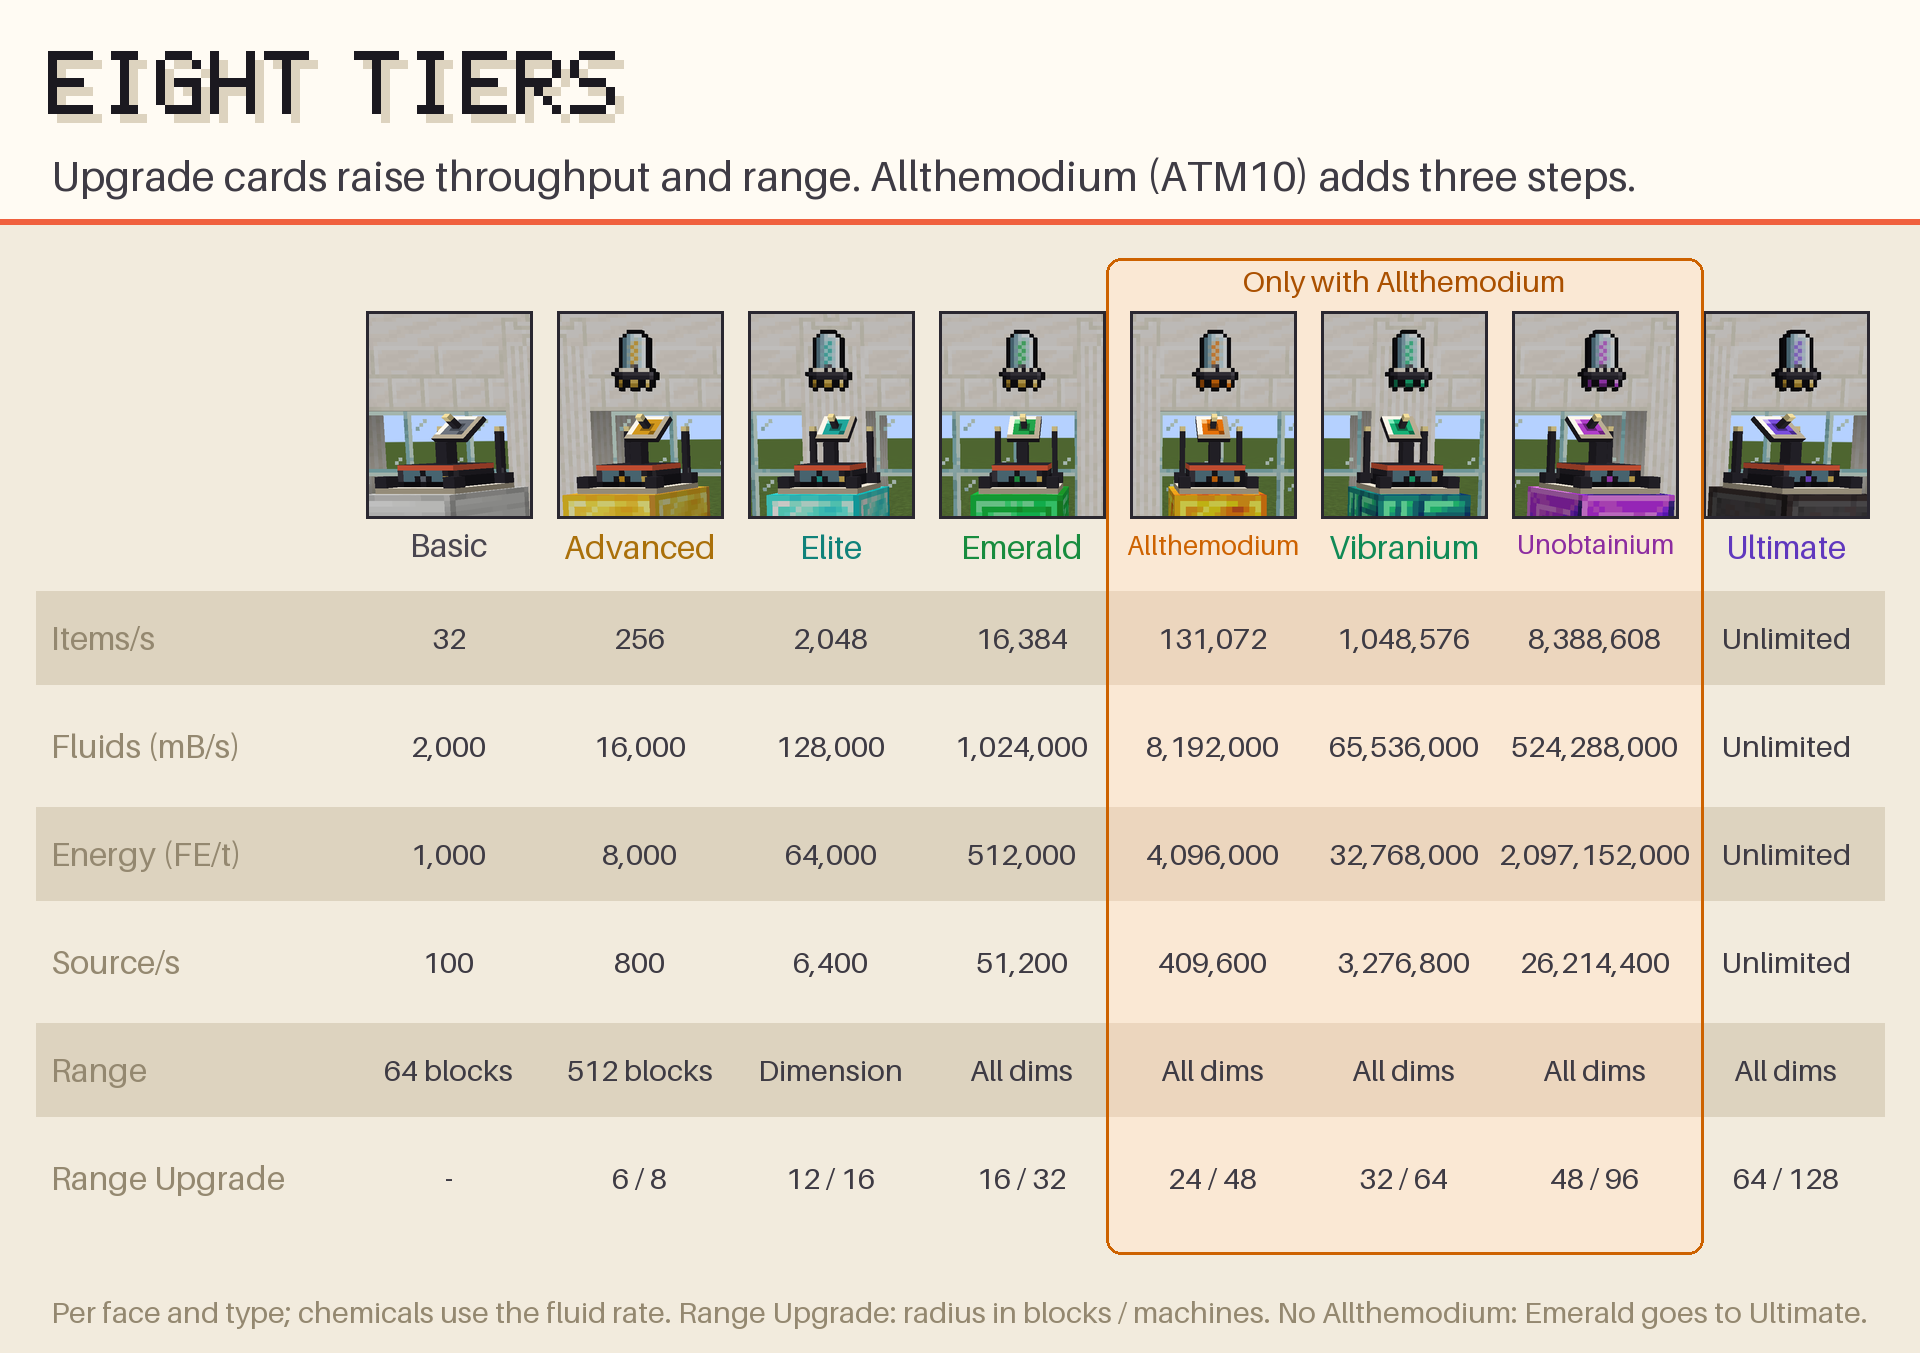
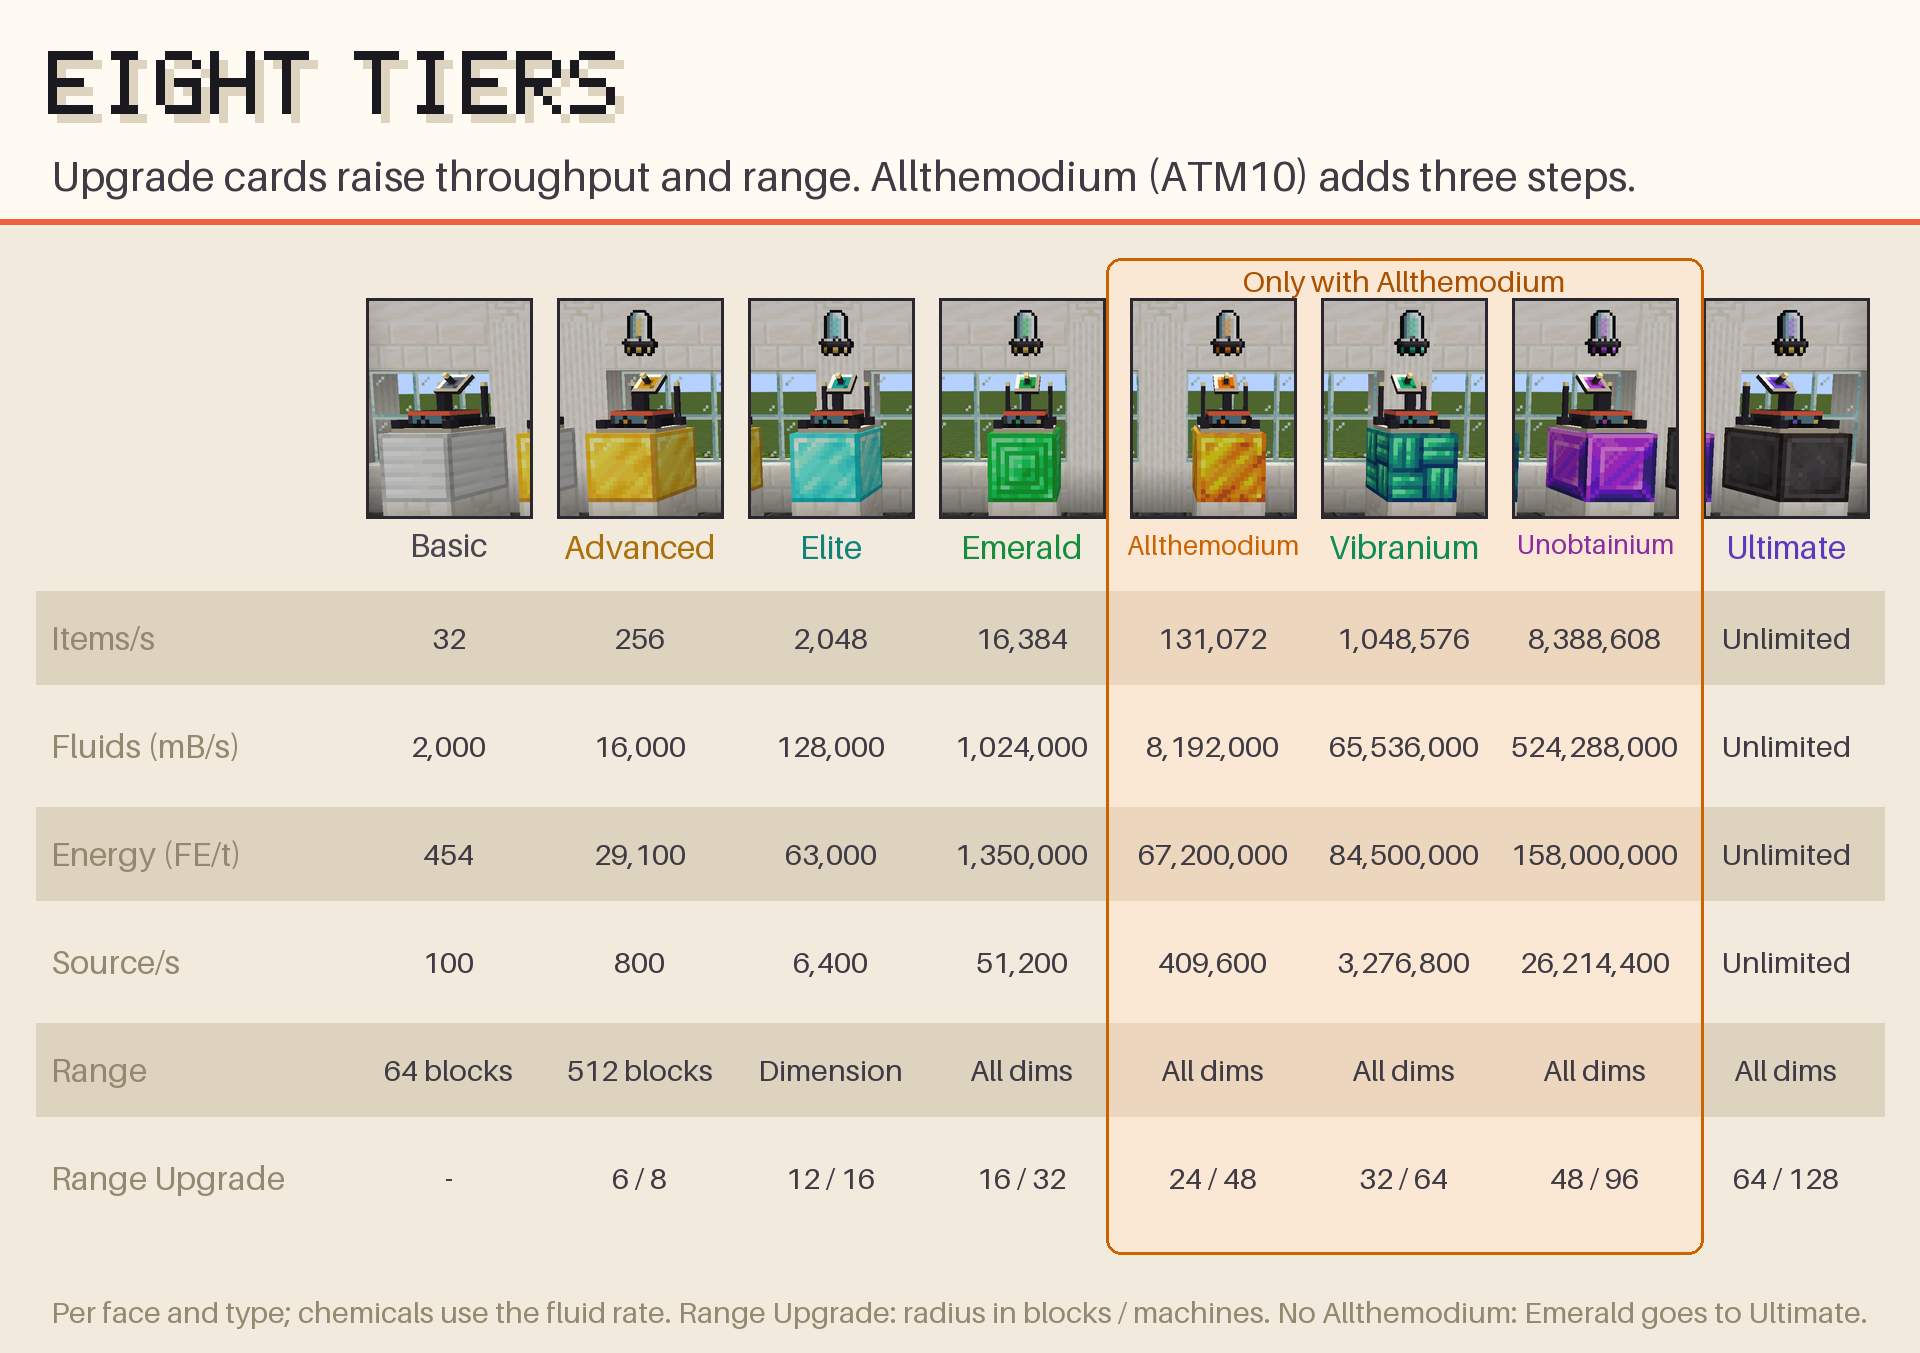
Imagem dos tiers do CurseForge com a energia nova

diff --git a/scripts/curseforge/gerar_imagens.py b/scripts/curseforge/gerar_imagens.py
@@ -229,13 +229,14 @@ TIERS = [
 # coordenadas de 1280x800 e o recorte em volta (o cartão flutuando em cima e o bloco do material embaixo).
 # Medidos na captura: a câmera é a mesma, mas o campo de visão efetivo muda com o ambiente que fotografa,
 # então confira a folha dos recortes (folha.py) sempre que refizer a vitrine.
-TIER_HALL_X = [147, 287, 428, 569, 710, 851, 992, 1132]
-TIER_HALL_Y = (276, 442)
-TIER_HALL_MEIA_LARGURA = 66
+TIER_HALL_X = [307, 398, 491, 589, 678, 780, 877, 977]
+TIER_HALL_Y = (318, 478)
+TIER_HALL_MEIA_LARGURA = 60
 VAZOES = [
     ("Items/s", [32, 256, 2_048, 16_384, 131_072, 1_048_576, 8_388_608, 0]),
     ("Fluids (mB/s)", [2_000, 16_000, 128_000, 1_024_000, 8_192_000, 65_536_000, 524_288_000, 0]),
-    ("Energy (FE/t)", [1_000, 8_000, 64_000, 512_000, 4_096_000, 32_768_000, 2_097_152_000, 0]),
+    # a geração máxima do Ressonador do tier mais 5% (EnergyBalance); o Ultimate não tem limite
+    ("Energy (FE/t)", [454, 29_100, 63_000, 1_350_000, 67_200_000, 84_500_000, 158_000_000, 0]),
     ("Source/s", [100, 800, 6_400, 51_200, 409_600, 3_276_800, 26_214_400, 0]),
 ]
 ALCANCE = ["64 blocks", "512 blocks", "Dimension"] + ["All dims"] * 5

diff --git a/docs/progresso.md b/docs/progresso.md
@@ -54,7 +54,7 @@ Feitos: Editor de receitas (`recipe/edit/`, `client/recipe/RecipeEditorScreen`, 
 
 ## Próximo passo
 
-1a. **Energia ligada ao Ressonador (22/10, depois da 2.7.0), local, sem push:** a energia do roteador de cada tier passa a ser a geração máxima do Ressonador do mesmo tier mais 5%, arredondada para cima em três algarismos (454; 29.100; 63.000; 1.350.000; 67.200.000; 84.500.000; 158.000.000 FE/t; o Ultimate segue sem limite), e a capacidade da Bateria passa a ser uma hora (72.000 ticks) dessa geração (31,1 M; 1,99 G; 4,32 G; 92,16 G; 4,61 T; 5,79 T; 10,79 T FE; o Ultimate sem limite). A regra fica no `resonator/EnergyBalance` (puro, com JUnit), que alimenta o `ResourceType.ENERGY` e o `StorageKind.BATTERY`; a migração 5 da config (`CURRENT_BALANCE = 5`) troca só o que ainda está no padrão antigo. Vários roteadores baixam (o Unobtainium de 4,29 G para 158 M FE/t), de propósito. 656 GameTests na run comum (+2 da migração 5) e JUnit `EnergyBalanceTest`. **Falta:** rodar as outras quatro runs de GameTest e o e2e, e entrar numa versão (a 2.7.1 ou a 2.8.0: muda o balanceamento, não o protocolo) com changelog e a nota de que a energia do roteador e a capacidade da Bateria mudaram.
+1a. **Energia ligada ao Ressonador (22/10, depois da 2.7.0), local, sem push:** a energia do roteador de cada tier passa a ser a geração máxima do Ressonador do mesmo tier mais 5%, arredondada para cima em três algarismos (454; 29.100; 63.000; 1.350.000; 67.200.000; 84.500.000; 158.000.000 FE/t; o Ultimate segue sem limite), e a capacidade da Bateria passa a ser uma hora (72.000 ticks) dessa geração (31,1 M; 1,99 G; 4,32 G; 92,16 G; 4,61 T; 5,79 T; 10,79 T FE; o Ultimate sem limite). A regra fica no `resonator/EnergyBalance` (puro, com JUnit), que alimenta o `ResourceType.ENERGY` e o `StorageKind.BATTERY`; a migração 5 da config (`CURRENT_BALANCE = 5`) troca só o que ainda está no padrão antigo. Vários roteadores baixam (o Unobtainium de 4,29 G para 158 M FE/t), de propósito. 656 GameTests na run comum (+2 da migração 5) e JUnit `EnergyBalanceTest`. A imagem `feature-4-tiers.png` do CurseForge foi refeita com os valores novos (e os recortes do salão dos tiers acertados para a vitrine atual); falta o dono subi-la e mandar o link para trocar o `ENVIAR:` da `descricao.md`. **Falta:** o e2e, e entrar numa versão (a 2.7.1 ou a 2.8.0: muda o balanceamento, não o protocolo) com changelog e a nota de que a energia do roteador e a capacidade da Bateria mudaram.
 
 0z. **Mapa com dados próprios e arrastável (22/10):** o Mapa do Tablet deixou de desenhar a página da Lista (que dependia da busca, dos filtros, da visão Máquinas, do teto de 256 e das linhas abertas da árvore, e por isso mostrava menos roteadores, ou nenhum na visão Máquinas, a quem tinha essa tela lembrada: o caso do amigo que viu o Mapa incompleto) e passou a receber `TabletMapPayload` (protocolo 32): todos os roteadores que o jogador vê na dimensão, até 1.024 mais perto, só com a aba aberta, no máximo um por segundo e só se mudou (`TabletMap`, `MapNearest`). O mapa se move arrastando (clique sem arrastar escolhe; **Centralizar** volta ao jogador). 654 GameTests (+4 do Mapa), JUnit `MapNearestTest`, e2e do Tablet com `7n-tablet-mapa-arrastado`. **Não confirmei** que foi essa a causa do que o amigo viu (não tenho o estado da tela dele); o que está no código era real nos três casos acima. Se voltar a acontecer com o Mapa já neste formato, pedir a aba, a busca e a visão que ele tinha.
 

diff --git a/docs/curseforge/descricao.md b/docs/curseforge/descricao.md
@@ -53,7 +53,7 @@ Match items by what they **are**, not which item they are: **any enchanted item*
 
 Tiers raise a router's throughput and range along the ladder Basic → Advanced → Elite → **Emerald** → Ultimate. With the **Allthemodium** mod (ATM10), three more steps go between Emerald and Ultimate: **Allthemodium → Vibranium → Unobtainium**, crafted from the mod's own metals, and in ATM10 the Ultimate ring takes **ATM Star shards**. Each tier has one ring of ingredients, used two ways at the same cost: put a router (or storage block) in the middle of the next ring at the crafting table, or make an Upgrade Card ("Basic → Elite") and use it on the placed router, which keeps its whole configuration. A card can skip tiers: put it in the middle of the next ring to extend it.
 
-![Eight tiers](https://media.forgecdn.net/attachments/2085/358/feature-4-tiers-png.png)
+![Eight tiers](ENVIAR:feature-4-tiers.png)
 
 | Tier | Items/s | Fluid and chemical (mB/s) | Energy (FE/t) | Source/s | Range | Range Upgrade |
 | --- | --- | --- | --- | --- | --- | --- |
